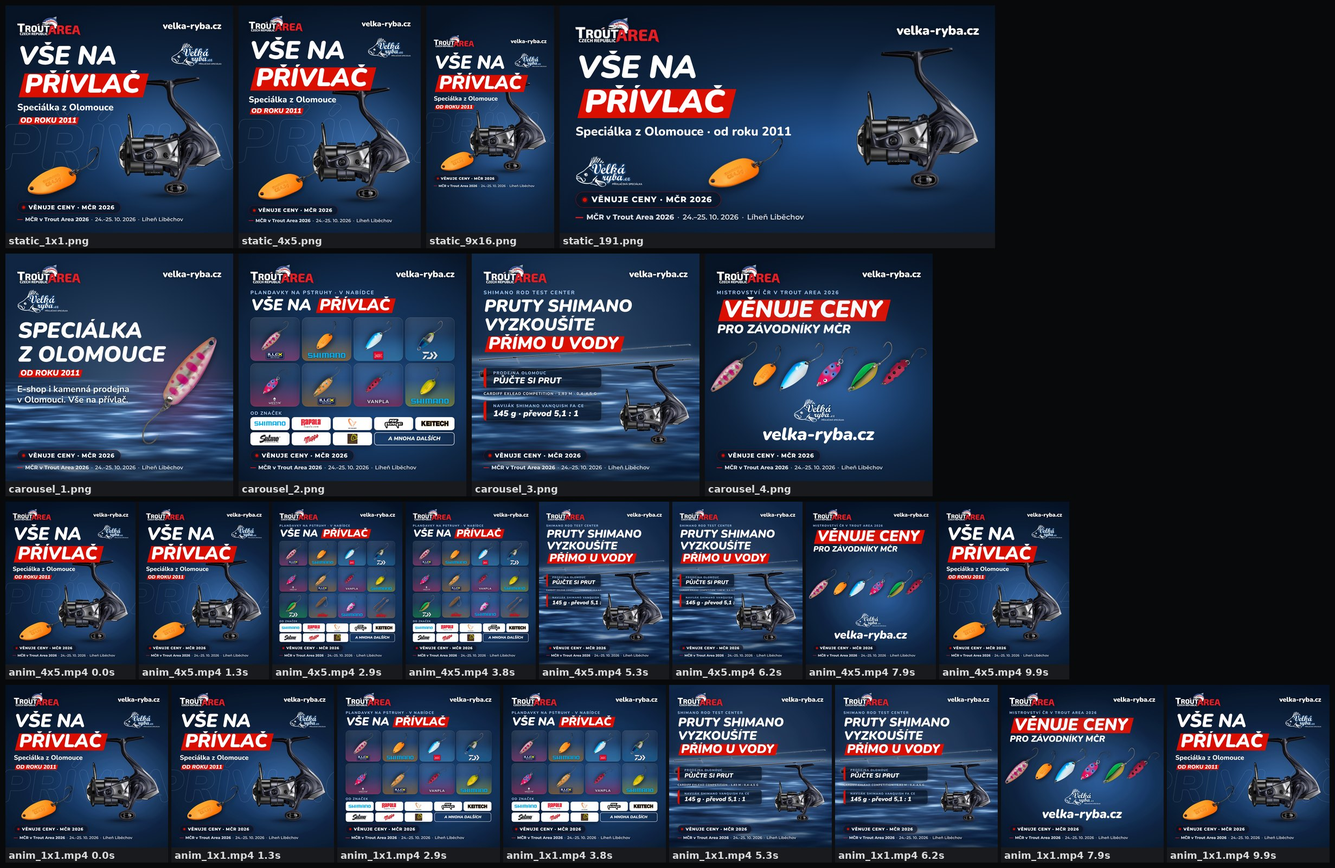
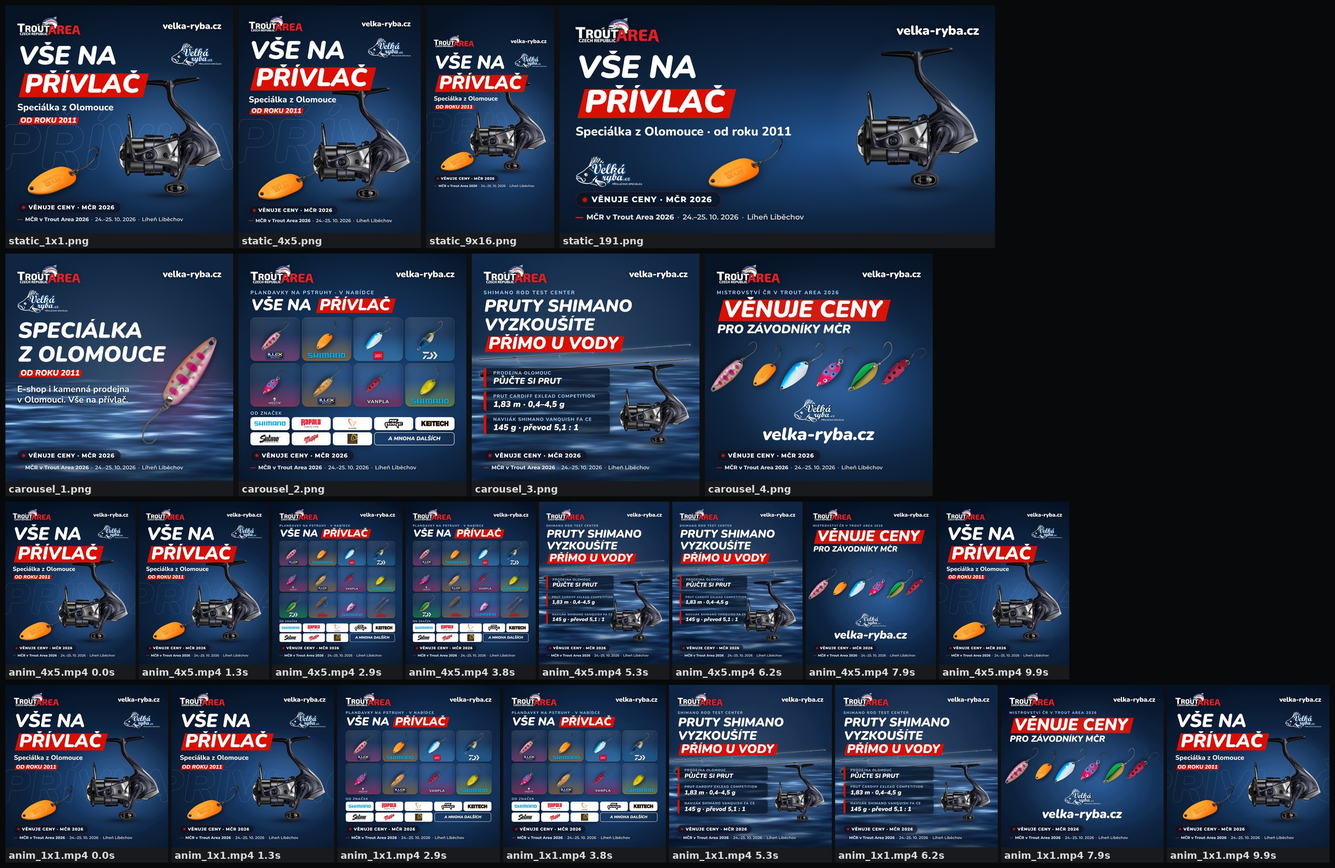
MČR 2026 bannery: all 9 sponsor sets done (velkaryba) + memory
Claude-Session: https://claude.ai/code/session_01UKzPfFpeHC8GokMPr6qFhY

diff --git a/projects/_shared/MEMORY.md b/projects/_shared/MEMORY.md
@@ -110,6 +110,7 @@
 - MČR v3 глобально (21. 10.): (1) **Музыка**: Suno-трек sponsors_3 плывёт 130,0 → 132,3 BPM, поэтому линейная сетка не годится. Сетка librosa опаздывает на ~27 мс к пику флюкса и на ~39 мс к началу удара. `mcr-2026-sponzori/scripts/music_edit.py <plan.json>` строит полином deg 5 по долям + локальную фазу по onset-огибающей 2,7 мс и сдвигает время доли на начало транзиента (−12 мс); результат кэшируется в `music/<src>.grid.json`. Склейки только на downbeat: исходящий кусок до T−6 мс, входящий equal-power за [T−24, T−6] мс. Карта источника (такт = downbeat, k0 = 2): 10–17 билд, 18 дроп, 30 fill, 45–46 брейк, 47–48 rebuild, 62 fill, 63–78 пик 1, 79–80 брейк, 81–94 пик 2 (самый громкий), 95–101 без хэтов, 102–104 спад, 105 удар + звон (конец на −34 dB, нужен fade). (2) **Логотип TA без плашки**: оператор решил, что всегда белое TROUT + красное AREA, navy-вариант не использовать. Читаемость даёт сила мягкой тени (тоны dark/scrim/halo) по расписанию; есть проба яркости `scripts/plate_probe.mjs` (кадры со скрытым логотипом → `data/plate_tone.json`, штамп по композициям). (3) `hyperframes snapshot` всей плёнки теперь работает с `--timeout 60000 --describe false`, ≈ 1,2 с на кадр. (4) Роли блоков `meta.role`: sponsor / host / supporter (ČRS — без чипа приза).
 - MČR v3 engine (21. 10.): (1) **Музыка plan B** — `mcr-2026-sponzori/scripts/music_edit.py <plan.json>` (полуоткрытые такты источника, `source_segments_bars`). Suno-трек sponsors_3 ускоряется 130,0 → 132,3 BPM: линейная сетка врёт до ±0,28 с → полином deg 5 по долям librosa + локальная фаза по onset-огибающей 2,7 мс, затем сдвиг на НАЧАЛО удара (librosa опаздывала ~27 мс к пику флюкса, ~39 мс к атаке). Склейка: исходящий до T−6 мс, входящий equal-power [T−24, T−6] мс → удары целые, фаза непрерывна. Структура источника (такт i = downbeat i, k0=2): 10–17 билд, 18 дроп, 30 fill, 45–46 брейк, 47–48 rebuild, 62 fill, 63–78 пик 1, 79–80 брейк, 81–94 пик 2 (громче всего), 95–101 пик без хэтов, 102–104 спад, 105 финальный удар + звон (обрезан на −34 dB → fade 2,5 с). (2) **Логотип TA без плашки — решение оператора: ВСЕГДА белый TROUT + красный AREA** (navy-вариант не использовать); читаемость = мягкая тёмная тень по форме букв (`brightness(0) blur(3px)` + `blur(14px)` копии лого фоном div) + слабое радиальное гало; сплошное эллиптическое гало на белом читается как грязное пятно. Сила тени — по «тону» (dark/scrim/halo) из зонда яркости `scripts/plate_probe.mjs` (сборка с `PLATE_HIDE=1` → snapshot каждые 0,3 с → пиксели под альфой лого; при быстром чередовании миров побеждает более сильная тень). (3) `hyperframes snapshot` всего фильма теперь работает с `--timeout 60000 --describe false` (~1,2 с/кадр). (4) Воркфлоу сам коммитит промежуточные результаты — `git diff` может быть пустым при реальных правках.
 - MČR баннеры FB/IG (`mcr-2026-bannery/`, 22. 10.): свой лёгкий движок вместо `hyperframes render` — Playwright (тот же headless_shell) + ffmpeg, любые размеры (1:1, 4:5, 1.91:1, 9:16) в одном проходе, MP4 10 с ≈ 30–35 с. Chrome (логотип TA, URL, чип роли, строка события) рисует ДВИЖОК, сцены спонсора — только тело `E.body` → правила не зависят от агентов; QA правил в DOM (`.sp-logo` ≤ логотип TA по ширине и площади, точный текст чипа, URL, наложения текста на chrome) → `XX` и exit 1. Анимация = `data-*` атрибуты как чистая функция времени (seek-safe). Петля: постер на 1-м и последнем кадре, `data-spin` = 360° за петлю (шов = только шум кодека). Уроки анимации: кроссфейд 0,3 с между сценами = «призраки»; вход с задержками и опасити-фейдом = пустые кадры после склейки → склейка 0,1 с, элементы непрозрачны за 3 кадра, задержка двигает только движение; slam ≤ 1,12 (1,22 резал заголовок краем кадра). Продукт на подиуме подбирать по высоте, свободной от текста (`top`), текст всегда поверх продукта. Параллельные агенты: 1 модуль `scripts/sponsors/<key>.mjs`, видео через межпроцессный mkdir-лок. Только чешский текст на экране (поймал «Hand-built in Czechia»).
+- MČR баннеры · velkaryba (22. 10.): красная «ценник»-плашка под строкой = `<span>` с `::before` skewX(-14°), `transform-origin:0 100%`, `.t{isolation:isolate}` — ширина = ширине текста без замеров, нет выхода из safe; удилище S7 (41° в PNG) кладётся горизонтально `rotate(40.8deg)` между заголовком и чипами → не режет текст; превью всех сцен в любом формате без видео-лока: свой скрипт на `buildPage`+`still` (scratchpad), а не `build.mjs`.
 ## Индекс проектов
 | Папка | Что | Статус |
 |---|---|---|
